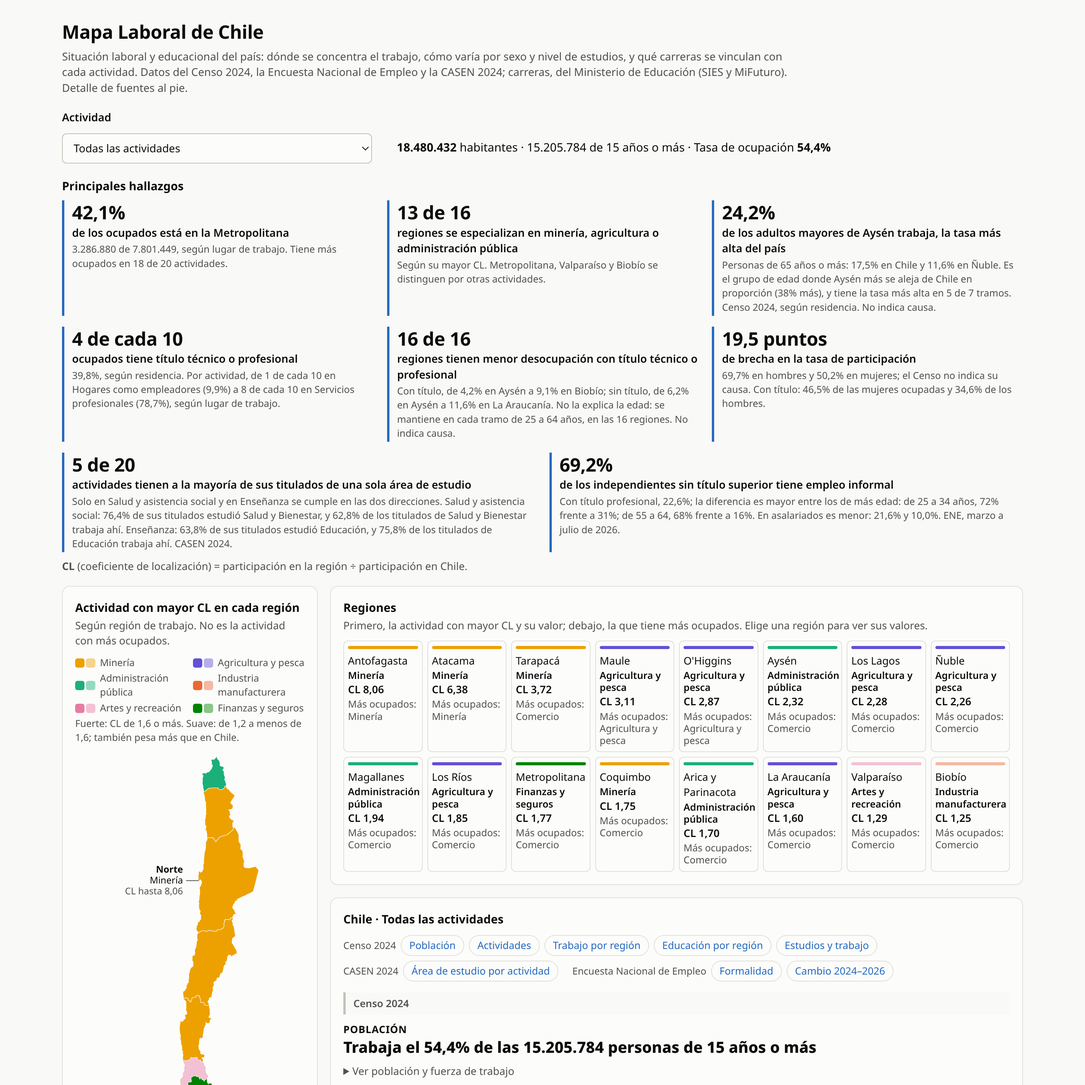
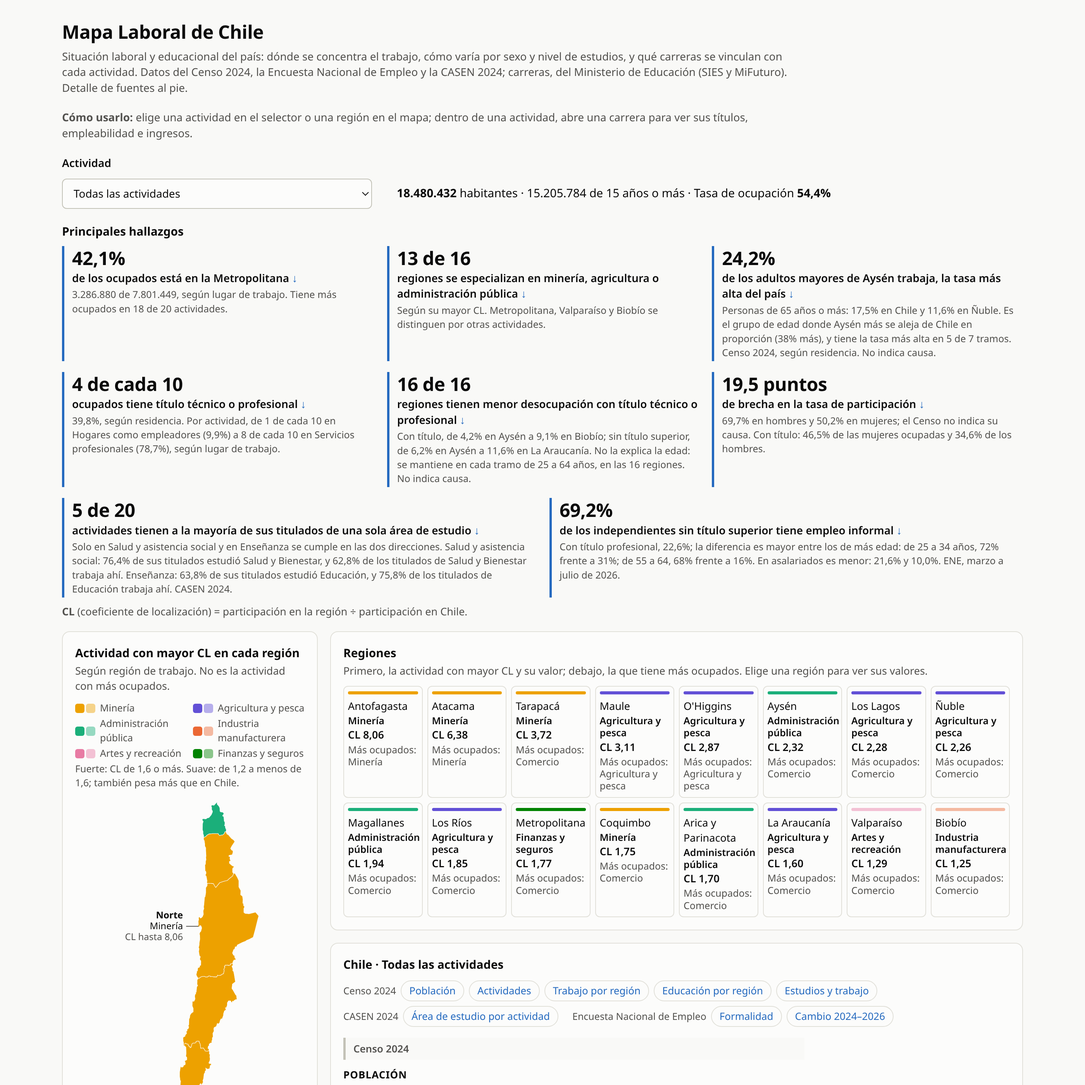
Lleva cada tarjeta a su evidencia, agrega "Cómo usarlo" y acorta el texto para leerlo mejor
- Las 8 tarjetas del resumen son botones que bajan a su sección (o al mapa)
- En celular, cada tarjeta muestra cifra y frase; el detalle queda bajo "más"
- "Cómo usarlo" bajo la bajada: selector, mapa y ficha de carrera
- Texto corrido a 80 caracteres por línea; 3 párrafos largos separados en dos
- El encabezado de actividad no repite la región cuando también es la de más ocupados
- La tarjeta "16 de 16" dice "sin título superior", como el resto del mapa
- Nota de lectura y README actualizados

Changed region(s): [[0.0621, 0.0932, 0.9321, 1.0], [0.3107, 0.0932, 0.3418, 0.1243], [0.2486, 0.0932, 0.2796, 0.1243]]

diff --git a/docs/index.html b/docs/index.html
@@ -51,6 +51,8 @@ td.n,th.n{text-align:right;font-variant-numeric:tabular-nums}
 td.n{white-space:nowrap}
 details{margin-top:8px}summary{cursor:pointer;color:var(--t2);font-size:13.5px}
 /* Título de cada tabla cuando un "Ver cifras" tiene más de una: sin él no se veía dónde empezaba la segunda. */
+/* Texto corrido a unos 80 caracteres por línea (medía hasta ~130 a 1.400 px); tablas y gráficos usan todo el ancho. */
+#detalle p,#detalle .nota,#detalle .aviso,.bajada,.lectura{max-width:80ch}
 .tabla-titulo{font-weight:600;font-size:14px;margin:14px 0 2px}
 .bajada{color:var(--t2);margin:0 0 18px;max-width:120ch}
 .filtro{display:flex;gap:10px;align-items:center;flex-wrap:wrap;margin-bottom:6px}
@@ -118,6 +120,13 @@ details{margin-top:8px}summary{cursor:pointer;color:var(--t2);font-size:13.5px}
 .kpi span{display:block}
 .kpi-t{font-weight:600;margin:2px 0}
 .kpi .nota{font-size:12.5px}
+/* La cifra y su frase son un botón que baja a la sección con la evidencia; la flecha lo dice también en pantallas táctiles. */
+.kpi-ir{all:unset;display:block;cursor:pointer}
+.kpi-ir:focus-visible{outline:2px solid var(--acento);outline-offset:3px}
+.kpi-ir:hover .kpi-t{text-decoration:underline;text-underline-offset:2px}
+.kpi .kpi-flecha{display:inline;color:var(--acento)}
+.kpi .kpi-mas{display:none}
+@media(max-width:640px){.kpi:not(.abierta) .kpi-det{display:none}.kpi .kpi-mas{display:inline-block;font-size:12.5px;margin-top:2px}}
 .leyenda-cat{display:grid;grid-template-columns:1fr 1fr;gap:2px 8px;font-size:12.5px}
 .leyenda-cat>div:last-child{grid-column:1/-1}
 .anotacion{pointer-events:none;fill:var(--t1)}
@@ -329,6 +338,7 @@ button.sn-fila{font:inherit;color:inherit;background:none;border:0;text-align:le
 <div class="viz-root"><div class="envoltura">
 <h1>Mapa Laboral de Chile</h1>
 <p class="bajada">Situación laboral y educacional del país: dónde se concentra el trabajo, cómo varía por sexo y nivel de estudios, y qué carreras se vinculan con cada actividad. Datos del Censo 2024, la Encuesta Nacional de Empleo y la CASEN 2024; carreras, del Ministerio de Educación (SIES y MiFuturo). Detalle de fuentes al pie.</p>
+<p class="bajada como"><strong>Cómo usarlo:</strong> elige una actividad en el selector o una región en el mapa; dentro de una actividad, abre una carrera para ver sus títulos, empleabilidad e ingresos.</p>
 <div class="cabecera" id="cabecera">
 <div class="filtro"><label for="actividad">Actividad</label><select id="actividad"></select></div>
 <p class="lectura" id="lectura" aria-live="polite"></p>
@@ -475,34 +485,41 @@ function pintarResumen(){
  principal.innerHTML=[
   [`${num(rm.pct_lugar_trabajo,1)}%`,"de los ocupados está en la Metropolitana",
    `${num(rm.lugar_trabajo)} de ${num(ch.lugar_trabajo)}, según lugar de trabajo. `+
-   `Tiene más ocupados en ${RES.n_metropolitana} de ${DATOS.actividades.length} actividades.`],
+   `Tiene más ocupados en ${RES.n_metropolitana} de ${DATOS.actividades.length} actividades.`,"sec-lab"],
   [`${patron.length} de ${todas.length}`,"regiones se especializan en minería, agricultura o administración pública",
-   "Según su mayor CL. Metropolitana, Valparaíso y Biobío se distinguen por otras actividades."],
+   "Según su mayor CL. Metropolitana, Valparaíso y Biobío se distinguen por otras actividades.","mapa"],
   // Adultos mayores más ocupados (Trabajo por región): misma cifra que la columna 65 o más de su "Ver cifras".
   ...(m=>[[`${num(m.v,1)}%`,`de los adultos mayores de ${enReg(m.r)} trabaja, la tasa más alta del país`,
    `Personas de 65 años o más: ${num(m.ch,1)}% en Chile y ${num(m.vmin,1)}% en ${enReg(m.rmin)}. Es el grupo de edad donde ${nomReg(m.r)} más se aleja de Chile en proporción (${m.rel}% más), `+
-   `y tiene la tasa más alta en ${m.primera} de ${m.n} tramos. Censo 2024, según residencia. No indica causa.`]])(mayoresOcupados()),
+   `y tiene la tasa más alta en ${m.primera} de ${m.n} tramos. Censo 2024, según residencia. No indica causa.`,"sec-lab"]])(mayoresOcupados()),
   [deCada10(EST.pct_con_titulo),"ocupados tiene título técnico o profesional",
    `${num(EST.pct_con_titulo,1)}%, según residencia. Por actividad, de ${deCada10(conTitulo(tMin.niveles))} en ${esc(tMin.corto)} (${num(conTitulo(tMin.niveles),1)}%) `+
-   `a ${deCada10(conTitulo(tMax.niveles))} en ${esc(tMax.corto)} (${num(conTitulo(tMax.niveles),1)}%), según lugar de trabajo.`],
+   `a ${deCada10(conTitulo(tMax.niveles))} en ${esc(tMax.corto)} (${num(conTitulo(tMax.niveles),1)}%), según lugar de trabajo.`,"sec-est"],
   [`${ed.menor} de ${ed.n}`,"regiones tienen menor desocupación con título técnico o profesional",
-   `Con título, ${ed.con}; sin título, ${ed.sin}. ${edadIgual()}. No indica causa.`],
+   `Con título, ${ed.con}; sin título superior, ${ed.sin}. ${edadIgual()}. No indica causa.`,"sec-est"],
   [`${num(brecha,1)} puntos`,"de brecha en la tasa de participación",
    `${num(sx.hombres.tasa_participacion,1)}% en hombres y ${num(sx.mujeres.tasa_participacion,1)}% en mujeres; el Censo no indica su causa. `+
-   `Con título: ${num(EST.sexo.mujeres,1)}% de las mujeres ocupadas y ${num(EST.sexo.hombres,1)}% de los hombres.`],
+   `Con título: ${num(EST.sexo.mujeres,1)}% de las mujeres ocupadas y ${num(EST.sexo.hombres,1)}% de los hombres.`,"sec-pob"],
   // La cifra grande es la del título de su sección y la de la barra (5 de 20), para que al bajar no aparezca otro número; la
   // otra dirección va en el detalle: con una sola, "Construcción viene de Ingeniería" parecía igual de estrecho que Enseñanza.
   [`${ar.una.length} de ${ar.filas.length}`,"actividades tienen a la mayoría de sus titulados de una sola área de estudio",
    `Solo en ${ar.dos.map(({a})=>esc(a.corto)).join(" y en ")} se cumple en las dos direcciones. `+
    // Cada actividad con sus dos % en una frase: "respectivamente" obligaba a emparejar cifras. Construcción, el contraste,
    // queda en el párrafo de la sección, para que la tarjeta no doble en largo a las demás.
-   ar.dos.map(({a,x})=>`${esc(a.corto)}: ${num(x.pct,1)}% de sus titulados estudió ${esc(x.corto)}, y ${num(x.en_area,1)}% de los titulados de ${esc(x.corto)} trabaja ahí.`).join(" ")+" CASEN 2024."],
+   ar.dos.map(({a,x})=>`${esc(a.corto)}: ${num(x.pct,1)}% de sus titulados estudió ${esc(x.corto)}, y ${num(x.en_area,1)}% de los titulados de ${esc(x.corto)} trabaja ahí.`).join(" ")+" CASEN 2024.","sec-area"],
   // Misma cifra que el título de Formalidad: la brecha por título está en los independientes, no en los asalariados.
   [`${num(FOR.niveles.Sin_titulo.inx[1],1)}%`,"de los independientes sin título superior tiene empleo informal",
    // Tres frases, como las demás tarjetas: el rango por edad queda en la sección y aquí va solo lo que no está en otra
    // parte del inicio, que la diferencia es mayor entre los de más edad. "15 años o más" ya está en la nota de la sección.
-   `Con título profesional, ${num(FOR.niveles.Profesional.inx[1],1)}%; ${brechaEdad().replace(/^L/,"l")}. En asalariados es menor: ${num(FOR.niveles.Sin_titulo.asa[1],1)}% y ${num(FOR.niveles.Profesional.asa[1],1)}%. ENE, ${PER.ene_actual}.`]]
-  .map(([v,t,d])=>`<div class="kpi"><b>${v}</b><span class="kpi-t">${t}</span><span class="nota">${d}</span></div>`).join("");
+   `Con título profesional, ${num(FOR.niveles.Profesional.inx[1],1)}%; ${brechaEdad().replace(/^L/,"l")}. En asalariados es menor: ${num(FOR.niveles.Sin_titulo.asa[1],1)}% y ${num(FOR.niveles.Profesional.asa[1],1)}%. ENE, ${PER.ene_actual}.`,"sec-for"]]
+  // Cada tarjeta lleva a la sección (o al mapa) donde está su evidencia, como el índice. En celular el detalle se pliega
+  // bajo "más": las 8 tarjetas ocupaban unos 1.450 px antes del mapa.
+  .map(([v,t,d,ir])=>`<div class="kpi"><button class="kpi-ir" data-ir="${ir}"><b>${v}</b><span class="kpi-t">${t} <span class="kpi-flecha" aria-hidden="true">↓</span></span></button>`+
+   `<span class="nota kpi-det">${d}</span><button class="enlace kpi-mas" aria-expanded="false">más</button></div>`).join("");
+ principal.querySelectorAll(".kpi-ir").forEach(b=>b.onclick=()=>{const s=document.getElementById(b.dataset.ir);
+  s.scrollIntoView({behavior:matchMedia("(prefers-reduced-motion: reduce)").matches?"auto":"smooth",block:"start"});
+  if(s.classList.contains("sec-cab"))s.focus({preventScroll:true})});
+ principal.querySelectorAll(".kpi-mas").forEach(b=>b.onclick=()=>{const k=b.closest(".kpi"),a=k.classList.toggle("abierta");b.textContent=a?"menos":"más";b.setAttribute("aria-expanded",a)});
  anotarMapa(NOTAS_MAPA=[[2,"izq","Norte","Minería",cl(2)],[7,"der","Centro-sur","Agricultura y pesca",cl(7)],[11,"der","Extremos","Administración pública",cl(11)]]);
  document.getElementById("lista").innerHTML=orden.map(([r,d])=>{
   const a=porCiiu(d.ciiu),v=a.regiones[r],ap=porCiiu(d.mas_personas),vm=ap.regiones[r];
@@ -531,7 +548,9 @@ function pintar(){
  document.getElementById("anotaciones").innerHTML="";document.getElementById("principal").hidden=true;document.getElementById("kpis-t").hidden=true;document.getElementById("cabecera").classList.remove("con-resumen");
  const max=orden[0][1].peso??1,mejor=orden[0],conc=orden.filter(([,d])=>d.lectura==="concentra"),mp=act.nacional.mas_personas;
  document.getElementById("lectura").innerHTML=`<strong>${esc(act.corto)}:</strong> mayor CL en <strong>${enReg(mejor[0])}</strong>, `+
-  `donde su participación es ${mejor[1].peso_txt} veces la de Chile, y más ocupados en <strong>${enReg(mp.r)}</strong> (${num(mp.n)}). `+
+  // Si la región con mayor CL es también la de más ocupados (8 de 20 actividades), se nombra una vez.
+  (String(mp.r)===String(mejor[0])?`donde su participación es ${mejor[1].peso_txt} veces la de Chile; también es la región con más ocupados (${num(mp.n)}). `
+   :`donde su participación es ${mejor[1].peso_txt} veces la de Chile, y más ocupados en <strong>${enReg(mp.r)}</strong> (${num(mp.n)}). `)+
   (conc.length===0?"Ninguna región con CL de 1,2 o más.":conc.length===1?"1 región con CL de 1,2 o más.":conc.length+" regiones con CL de 1,2 o más.");
  document.getElementById("lista").innerHTML=
   `<button data-r="${CHILE}" aria-pressed="${reg==null}" class="chile"><span>Chile<small>${vp(act.nacional.ocupados,act.pct_nacional)} · CL 1,00</small></span></button>`+
@@ -770,7 +789,8 @@ function formalidadHtml(){const c=FOR.chile,n=FOR.niveles;
   `Sin título superior, ${num(n.Sin_titulo.inf[1],1)}% es informal; con título profesional, ${num(n.Profesional.inf[1],1)}%. `+
   // El título y la tarjeta dicen dónde está la diferencia: en asalariados la brecha por título es mucho menor.
   `La diferencia está sobre todo en los independientes (${num(n.Sin_titulo.inx[1],1)}% ± ${num(n.Sin_titulo.inx_mas,1)} y ${num(n.Profesional.inx[1],1)}% ± ${num(n.Profesional.inx_mas,1)}); `+
-  `en asalariados es ${num(n.Sin_titulo.asa[1],1)}% y ${num(n.Profesional.asa[1],1)}%. ${edadFormalidad()}</p>
+  `en asalariados es ${num(n.Sin_titulo.asa[1],1)}% y ${num(n.Profesional.asa[1],1)}%.</p>
+ <p style="margin:8px 0 0">${edadFormalidad()}</p>
  <p style="margin:8px 0 0">`+
   // Segundo párrafo: dónde (actividad y región). En uno solo, el título y el rubro se leían como una lista sin pausa.
   // La frase por actividad no va aquí: es el título de su gráfico, más abajo, y repetida se leía dos veces.
@@ -1102,7 +1122,8 @@ function vistaResumen(){
    `<td class="n">${num(d.buscan)} (${num(d.pct_buscan,1)}%)</td><td class="n">${num(d.no_buscan)} (${num(d.pct_no_buscan,1)}%)</td>`+
    `<td class="n">${num(d.tasa_desocupacion,1)}%</td><td class="n">${num(d.tasa_participacion,1)}%</td></tr>`).join("")+
   `</tbody></table></div>${tablaEdadRegion()}</details>
- <p class="nota" style="margin:6px 0 0">${fraseEdadRegion()} ${fraseMayores()}</p>
+ <p class="nota" style="margin:6px 0 0">${fraseEdadRegion()}</p>
+ <p class="nota" style="margin:6px 0 0">${fraseMayores()}</p>
  ${graficoTraslado()}
  <details><summary>Ver cifras</summary>
  <div class="nota" style="margin-top:10px">Traslado entre regiones: ocupados que viven en la región, menos los que no informan dónde trabajan y los que salen, más los que llegan, da los que trabajan en ella.</div>
@@ -1125,7 +1146,8 @@ function vistaResumen(){
  <p class="nota" style="margin:6px 0 0">${NOTA_DENSIDAD}</p>
  ${encabezado("sec-est","Estudios y trabajo",`${e.menor===e.n?`En las ${e.n} regiones`:`En ${e.menor} de ${e.n} regiones`}, menos desocupación con título técnico o profesional`)}
  <div class="nota">Chile, Censo 2024. Según residencia, con nivel de estudios informado: ${num(EST.total)} ocupados.</div>
- <p style="margin:8px 0 0">${desocTitulo()} ${edadDesoc()}</p>
+ <p style="margin:8px 0 0">${desocTitulo()}</p>
+ <p style="margin:8px 0 0">${edadDesoc()}</p>
  <p style="margin:8px 0 0">Tienen título técnico o profesional ${num(EST.pct_con_titulo,1)}% de los ocupados: ${num(EST.sexo.mujeres,1)}% de las mujeres y ${num(EST.sexo.hombres,1)}% de los hombres.</p>
  ${barrasNivel()}
  ${tablaEstudiosNivel()}

diff --git a/src/Visualizacion/web/js/mapa.js b/src/Visualizacion/web/js/mapa.js
@@ -49,34 +49,41 @@ function pintarResumen(){
  principal.innerHTML=[
   [`${num(rm.pct_lugar_trabajo,1)}%`,"de los ocupados está en la Metropolitana",
    `${num(rm.lugar_trabajo)} de ${num(ch.lugar_trabajo)}, según lugar de trabajo. `+
-   `Tiene más ocupados en ${RES.n_metropolitana} de ${DATOS.actividades.length} actividades.`],
+   `Tiene más ocupados en ${RES.n_metropolitana} de ${DATOS.actividades.length} actividades.`,"sec-lab"],
   [`${patron.length} de ${todas.length}`,"regiones se especializan en minería, agricultura o administración pública",
-   "Según su mayor CL. Metropolitana, Valparaíso y Biobío se distinguen por otras actividades."],
+   "Según su mayor CL. Metropolitana, Valparaíso y Biobío se distinguen por otras actividades.","mapa"],
   // Adultos mayores más ocupados (Trabajo por región): misma cifra que la columna 65 o más de su "Ver cifras".
   ...(m=>[[`${num(m.v,1)}%`,`de los adultos mayores de ${enReg(m.r)} trabaja, la tasa más alta del país`,
    `Personas de 65 años o más: ${num(m.ch,1)}% en Chile y ${num(m.vmin,1)}% en ${enReg(m.rmin)}. Es el grupo de edad donde ${nomReg(m.r)} más se aleja de Chile en proporción (${m.rel}% más), `+
-   `y tiene la tasa más alta en ${m.primera} de ${m.n} tramos. Censo 2024, según residencia. No indica causa.`]])(mayoresOcupados()),
+   `y tiene la tasa más alta en ${m.primera} de ${m.n} tramos. Censo 2024, según residencia. No indica causa.`,"sec-lab"]])(mayoresOcupados()),
   [deCada10(EST.pct_con_titulo),"ocupados tiene título técnico o profesional",
    `${num(EST.pct_con_titulo,1)}%, según residencia. Por actividad, de ${deCada10(conTitulo(tMin.niveles))} en ${esc(tMin.corto)} (${num(conTitulo(tMin.niveles),1)}%) `+
-   `a ${deCada10(conTitulo(tMax.niveles))} en ${esc(tMax.corto)} (${num(conTitulo(tMax.niveles),1)}%), según lugar de trabajo.`],
+   `a ${deCada10(conTitulo(tMax.niveles))} en ${esc(tMax.corto)} (${num(conTitulo(tMax.niveles),1)}%), según lugar de trabajo.`,"sec-est"],
   [`${ed.menor} de ${ed.n}`,"regiones tienen menor desocupación con título técnico o profesional",
-   `Con título, ${ed.con}; sin título, ${ed.sin}. ${edadIgual()}. No indica causa.`],
+   `Con título, ${ed.con}; sin título superior, ${ed.sin}. ${edadIgual()}. No indica causa.`,"sec-est"],
   [`${num(brecha,1)} puntos`,"de brecha en la tasa de participación",
    `${num(sx.hombres.tasa_participacion,1)}% en hombres y ${num(sx.mujeres.tasa_participacion,1)}% en mujeres; el Censo no indica su causa. `+
-   `Con título: ${num(EST.sexo.mujeres,1)}% de las mujeres ocupadas y ${num(EST.sexo.hombres,1)}% de los hombres.`],
+   `Con título: ${num(EST.sexo.mujeres,1)}% de las mujeres ocupadas y ${num(EST.sexo.hombres,1)}% de los hombres.`,"sec-pob"],
   // La cifra grande es la del título de su sección y la de la barra (5 de 20), para que al bajar no aparezca otro número; la
   // otra dirección va en el detalle: con una sola, "Construcción viene de Ingeniería" parecía igual de estrecho que Enseñanza.
   [`${ar.una.length} de ${ar.filas.length}`,"actividades tienen a la mayoría de sus titulados de una sola área de estudio",
    `Solo en ${ar.dos.map(({a})=>esc(a.corto)).join(" y en ")} se cumple en las dos direcciones. `+
    // Cada actividad con sus dos % en una frase: "respectivamente" obligaba a emparejar cifras. Construcción, el contraste,
    // queda en el párrafo de la sección, para que la tarjeta no doble en largo a las demás.
-   ar.dos.map(({a,x})=>`${esc(a.corto)}: ${num(x.pct,1)}% de sus titulados estudió ${esc(x.corto)}, y ${num(x.en_area,1)}% de los titulados de ${esc(x.corto)} trabaja ahí.`).join(" ")+" CASEN 2024."],
+   ar.dos.map(({a,x})=>`${esc(a.corto)}: ${num(x.pct,1)}% de sus titulados estudió ${esc(x.corto)}, y ${num(x.en_area,1)}% de los titulados de ${esc(x.corto)} trabaja ahí.`).join(" ")+" CASEN 2024.","sec-area"],
   // Misma cifra que el título de Formalidad: la brecha por título está en los independientes, no en los asalariados.
   [`${num(FOR.niveles.Sin_titulo.inx[1],1)}%`,"de los independientes sin título superior tiene empleo informal",
    // Tres frases, como las demás tarjetas: el rango por edad queda en la sección y aquí va solo lo que no está en otra
    // parte del inicio, que la diferencia es mayor entre los de más edad. "15 años o más" ya está en la nota de la sección.
-   `Con título profesional, ${num(FOR.niveles.Profesional.inx[1],1)}%; ${brechaEdad().replace(/^L/,"l")}. En asalariados es menor: ${num(FOR.niveles.Sin_titulo.asa[1],1)}% y ${num(FOR.niveles.Profesional.asa[1],1)}%. ENE, ${PER.ene_actual}.`]]
-  .map(([v,t,d])=>`<div class="kpi"><b>${v}</b><span class="kpi-t">${t}</span><span class="nota">${d}</span></div>`).join("");
+   `Con título profesional, ${num(FOR.niveles.Profesional.inx[1],1)}%; ${brechaEdad().replace(/^L/,"l")}. En asalariados es menor: ${num(FOR.niveles.Sin_titulo.asa[1],1)}% y ${num(FOR.niveles.Profesional.asa[1],1)}%. ENE, ${PER.ene_actual}.`,"sec-for"]]
+  // Cada tarjeta lleva a la sección (o al mapa) donde está su evidencia, como el índice. En celular el detalle se pliega
+  // bajo "más": las 8 tarjetas ocupaban unos 1.450 px antes del mapa.
+  .map(([v,t,d,ir])=>`<div class="kpi"><button class="kpi-ir" data-ir="${ir}"><b>${v}</b><span class="kpi-t">${t} <span class="kpi-flecha" aria-hidden="true">↓</span></span></button>`+
+   `<span class="nota kpi-det">${d}</span><button class="enlace kpi-mas" aria-expanded="false">más</button></div>`).join("");
+ principal.querySelectorAll(".kpi-ir").forEach(b=>b.onclick=()=>{const s=document.getElementById(b.dataset.ir);
+  s.scrollIntoView({behavior:matchMedia("(prefers-reduced-motion: reduce)").matches?"auto":"smooth",block:"start"});
+  if(s.classList.contains("sec-cab"))s.focus({preventScroll:true})});
+ principal.querySelectorAll(".kpi-mas").forEach(b=>b.onclick=()=>{const k=b.closest(".kpi"),a=k.classList.toggle("abierta");b.textContent=a?"menos":"más";b.setAttribute("aria-expanded",a)});
  anotarMapa(NOTAS_MAPA=[[2,"izq","Norte","Minería",cl(2)],[7,"der","Centro-sur","Agricultura y pesca",cl(7)],[11,"der","Extremos","Administración pública",cl(11)]]);
  document.getElementById("lista").innerHTML=orden.map(([r,d])=>{
   const a=porCiiu(d.ciiu),v=a.regiones[r],ap=porCiiu(d.mas_personas),vm=ap.regiones[r];
@@ -105,7 +112,9 @@ function pintar(){
  document.getElementById("anotaciones").innerHTML="";document.getElementById("principal").hidden=true;document.getElementById("kpis-t").hidden=true;document.getElementById("cabecera").classList.remove("con-resumen");
  const max=orden[0][1].peso??1,mejor=orden[0],conc=orden.filter(([,d])=>d.lectura==="concentra"),mp=act.nacional.mas_personas;
  document.getElementById("lectura").innerHTML=`<strong>${esc(act.corto)}:</strong> mayor CL en <strong>${enReg(mejor[0])}</strong>, `+
-  `donde su participación es ${mejor[1].peso_txt} veces la de Chile, y más ocupados en <strong>${enReg(mp.r)}</strong> (${num(mp.n)}). `+
+  // Si la región con mayor CL es también la de más ocupados (8 de 20 actividades), se nombra una vez.
+  (String(mp.r)===String(mejor[0])?`donde su participación es ${mejor[1].peso_txt} veces la de Chile; también es la región con más ocupados (${num(mp.n)}). `
+   :`donde su participación es ${mejor[1].peso_txt} veces la de Chile, y más ocupados en <strong>${enReg(mp.r)}</strong> (${num(mp.n)}). `)+
   (conc.length===0?"Ninguna región con CL de 1,2 o más.":conc.length===1?"1 región con CL de 1,2 o más.":conc.length+" regiones con CL de 1,2 o más.");
  document.getElementById("lista").innerHTML=
   `<button data-r="${CHILE}" aria-pressed="${reg==null}" class="chile"><span>Chile<small>${vp(act.nacional.ocupados,act.pct_nacional)} · CL 1,00</small></span></button>`+

diff --git a/src/Visualizacion/web/js/vistas/resumen.js b/src/Visualizacion/web/js/vistas/resumen.js
@@ -232,7 +232,8 @@ function formalidadHtml(){const c=FOR.chile,n=FOR.niveles;
   `Sin título superior, ${num(n.Sin_titulo.inf[1],1)}% es informal; con título profesional, ${num(n.Profesional.inf[1],1)}%. `+
   // El título y la tarjeta dicen dónde está la diferencia: en asalariados la brecha por título es mucho menor.
   `La diferencia está sobre todo en los independientes (${num(n.Sin_titulo.inx[1],1)}% ± ${num(n.Sin_titulo.inx_mas,1)} y ${num(n.Profesional.inx[1],1)}% ± ${num(n.Profesional.inx_mas,1)}); `+
-  `en asalariados es ${num(n.Sin_titulo.asa[1],1)}% y ${num(n.Profesional.asa[1],1)}%. ${edadFormalidad()}</p>
+  `en asalariados es ${num(n.Sin_titulo.asa[1],1)}% y ${num(n.Profesional.asa[1],1)}%.</p>
+ <p style="margin:8px 0 0">${edadFormalidad()}</p>
  <p style="margin:8px 0 0">`+
   // Segundo párrafo: dónde (actividad y región). En uno solo, el título y el rubro se leían como una lista sin pausa.
   // La frase por actividad no va aquí: es el título de su gráfico, más abajo, y repetida se leía dos veces.
@@ -564,7 +565,8 @@ function vistaResumen(){
    `<td class="n">${num(d.buscan)} (${num(d.pct_buscan,1)}%)</td><td class="n">${num(d.no_buscan)} (${num(d.pct_no_buscan,1)}%)</td>`+
    `<td class="n">${num(d.tasa_desocupacion,1)}%</td><td class="n">${num(d.tasa_participacion,1)}%</td></tr>`).join("")+
   `</tbody></table></div>${tablaEdadRegion()}</details>
- <p class="nota" style="margin:6px 0 0">${fraseEdadRegion()} ${fraseMayores()}</p>
+ <p class="nota" style="margin:6px 0 0">${fraseEdadRegion()}</p>
+ <p class="nota" style="margin:6px 0 0">${fraseMayores()}</p>
  ${graficoTraslado()}
  <details><summary>Ver cifras</summary>
  <div class="nota" style="margin-top:10px">Traslado entre regiones: ocupados que viven en la región, menos los que no informan dónde trabajan y los que salen, más los que llegan, da los que trabajan en ella.</div>
@@ -587,7 +589,8 @@ function vistaResumen(){
  <p class="nota" style="margin:6px 0 0">${NOTA_DENSIDAD}</p>
  ${encabezado("sec-est","Estudios y trabajo",`${e.menor===e.n?`En las ${e.n} regiones`:`En ${e.menor} de ${e.n} regiones`}, menos desocupación con título técnico o profesional`)}
  <div class="nota">Chile, Censo 2024. Según residencia, con nivel de estudios informado: ${num(EST.total)} ocupados.</div>
- <p style="margin:8px 0 0">${desocTitulo()} ${edadDesoc()}</p>
+ <p style="margin:8px 0 0">${desocTitulo()}</p>
+ <p style="margin:8px 0 0">${edadDesoc()}</p>
  <p style="margin:8px 0 0">Tienen título técnico o profesional ${num(EST.pct_con_titulo,1)}% de los ocupados: ${num(EST.sexo.mujeres,1)}% de las mujeres y ${num(EST.sexo.hombres,1)}% de los hombres.</p>
  ${barrasNivel()}
  ${tablaEstudiosNivel()}

diff --git a/src/Visualizacion/web/css/componentes.css b/src/Visualizacion/web/css/componentes.css
@@ -69,6 +69,13 @@ Piezas de la página: lectura, lista de regiones, mapa y leyenda, cifras grandes
 .kpi span{display:block}
 .kpi-t{font-weight:600;margin:2px 0}
 .kpi .nota{font-size:12.5px}
+/* La cifra y su frase son un botón que baja a la sección con la evidencia; la flecha lo dice también en pantallas táctiles. */
+.kpi-ir{all:unset;display:block;cursor:pointer}
+.kpi-ir:focus-visible{outline:2px solid var(--acento);outline-offset:3px}
+.kpi-ir:hover .kpi-t{text-decoration:underline;text-underline-offset:2px}
+.kpi .kpi-flecha{display:inline;color:var(--acento)}
+.kpi .kpi-mas{display:none}
+@media(max-width:640px){.kpi:not(.abierta) .kpi-det{display:none}.kpi .kpi-mas{display:inline-block;font-size:12.5px;margin-top:2px}}
 .leyenda-cat{display:grid;grid-template-columns:1fr 1fr;gap:2px 8px;font-size:12.5px}
 .leyenda-cat>div:last-child{grid-column:1/-1}
 .anotacion{pointer-events:none;fill:var(--t1)}

diff --git a/src/Visualizacion/web/index.html b/src/Visualizacion/web/index.html
@@ -15,6 +15,7 @@ __ESTILOS__</style>
 <div class="viz-root"><div class="envoltura">
 <h1>Mapa Laboral de Chile</h1>
 <p class="bajada">Situación laboral y educacional del país: dónde se concentra el trabajo, cómo varía por sexo y nivel de estudios, y qué carreras se vinculan con cada actividad. Datos del Censo 2024, la Encuesta Nacional de Empleo y la CASEN 2024; carreras, del Ministerio de Educación (SIES y MiFuturo). Detalle de fuentes al pie.</p>
+<p class="bajada como"><strong>Cómo usarlo:</strong> elige una actividad en el selector o una región en el mapa; dentro de una actividad, abre una carrera para ver sus títulos, empleabilidad e ingresos.</p>
 <div class="cabecera" id="cabecera">
 <div class="filtro"><label for="actividad">Actividad</label><select id="actividad"></select></div>
 <p class="lectura" id="lectura" aria-live="polite"></p>

diff --git a/src/Visualizacion/web/css/base.css b/src/Visualizacion/web/css/base.css
@@ -45,4 +45,6 @@ td.n,th.n{text-align:right;font-variant-numeric:tabular-nums}
 td.n{white-space:nowrap}
 details{margin-top:8px}summary{cursor:pointer;color:var(--t2);font-size:13.5px}
 /* Título de cada tabla cuando un "Ver cifras" tiene más de una: sin él no se veía dónde empezaba la segunda. */
+/* Texto corrido a unos 80 caracteres por línea (medía hasta ~130 a 1.400 px); tablas y gráficos usan todo el ancho. */
+#detalle p,#detalle .nota,#detalle .aviso,.bajada,.lectura{max-width:80ch}
 .tabla-titulo{font-weight:600;font-size:14px;margin:14px 0 2px}

diff --git a/README.md b/README.md
@@ -6,7 +6,7 @@ Mapa interactivo sobre la situación laboral y educacional de Chile. Muestra dó
 
 La vista inicial resume la población, las 20 actividades (con un gráfico de hombres y mujeres y otro de la región donde más pesa cada una), el área de estudio de los titulados de cada actividad y la formalidad del trabajo, con un índice de secciones y el hallazgo de cada una como título. Al elegir una actividad, el mapa colorea cada región según su coeficiente de localización (CL). Al elegir una región, el detalle va por tema: el CL (la tabla de la actividad y el CL de las 20 actividades de la región, en escala logarítmica); hombres y mujeres (en la actividad, en Chile y en la región, y en cada grupo de toda la región, con la brecha de participación frente a Chile); el nivel de estudios (el título técnico o profesional de los ocupados de la actividad, por sexo y frente a Chile, y la desocupación de la región por nivel, con la tasa de Chile y la diferencia escritas); y las carreras afines a nivel nacional, cada una con su ficha de titulados, empleabilidad e ingresos, con el área de estudio de los titulados ocupados en un circular.
 
-**Para verlo:** descarga [`docs/index.html`](docs/index.html) y ábrelo en el navegador. Es un solo archivo de 477 KB, sin servidor ni dependencias. Cada vista tiene su propio enlace: por ejemplo, `index.html#B/2` abre Minería en Antofagasta y baja a su detalle, y el botón "atrás" del navegador vuelve a la vista anterior.
+**Para verlo:** descarga [`docs/index.html`](docs/index.html) y ábrelo en el navegador. Es un solo archivo de 479 KB, sin servidor ni dependencias. Cada vista tiene su propio enlace: por ejemplo, `index.html#B/2` abre Minería en Antofagasta y baja a su detalle, y el botón "atrás" del navegador vuelve a la vista anterior.
 
 ![Vista inicial del mapa: cada región tiene el color de la actividad que la distingue, junto a los principales hallazgos, la lista de regiones y el gráfico de hombres y mujeres por actividad](docs/mapa.png)
 

diff --git a/docs/nota_de_lectura.md b/docs/nota_de_lectura.md
@@ -3,6 +3,8 @@
 ## Qué muestra
 La vista inicial resume la población, las 20 actividades, la actividad con mayor coeficiente de localización (CL) en cada región, la situación laboral y educacional de cada región, el área de estudio de los titulados de cada actividad (CASEN), y cómo cambió la desocupación entre 2024 y 2026. Al elegir una actividad, se ven sus ocupados, participación y CL por región. Al elegir una región, se ven sus cifras frente a Chile y las carreras afines, que son un dato nacional.
 
+Bajo la descripción, una línea dice cómo usarlo (elegir una actividad o una región, y abrir una carrera): antes la primera indicación aparecía recién en la sección Actividades, a unos 1.700 px en celular. Cada una de las 8 tarjetas de hallazgos es un botón que baja a la sección donde está su evidencia (o al mapa, en la de especialización), con una flecha que lo indica también en pantallas táctiles. En celular, el detalle de cada tarjeta se pliega bajo "más", para que el mapa aparezca antes. El texto corrido se limita a unos 80 caracteres por línea (medía hasta unos 130 a 1.400 px); tablas y gráficos usan todo el ancho. Cuando la región con mayor CL de una actividad es también la de más ocupados (8 de 20), el encabezado la nombra una sola vez.
+
 ## Glosario
 
 ### Situación laboral
